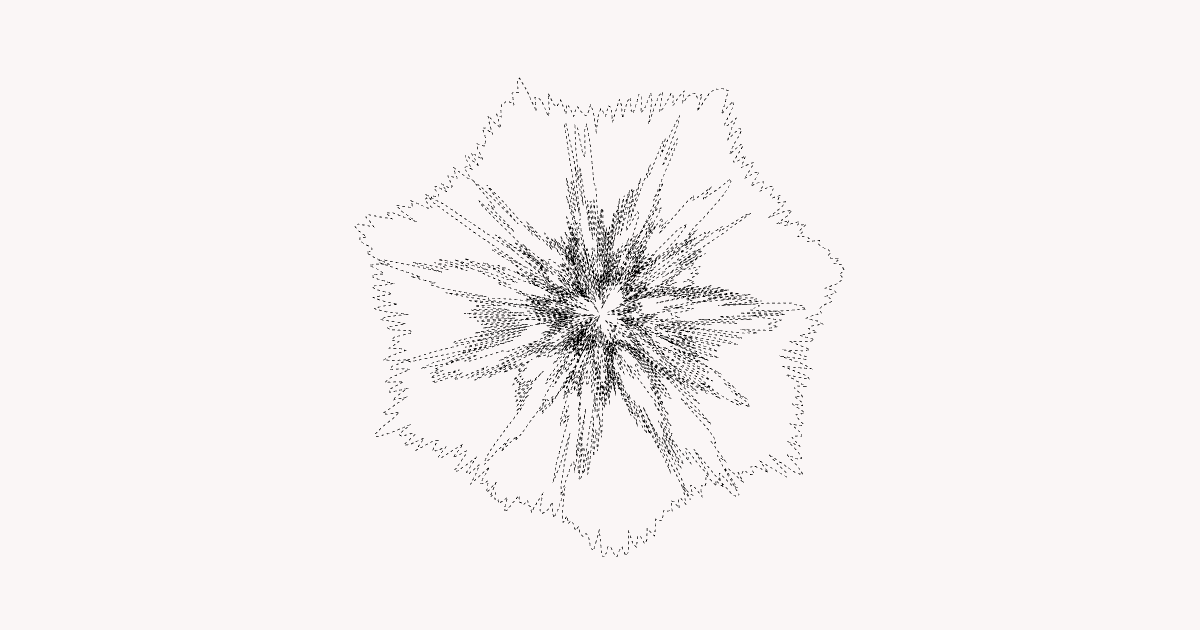
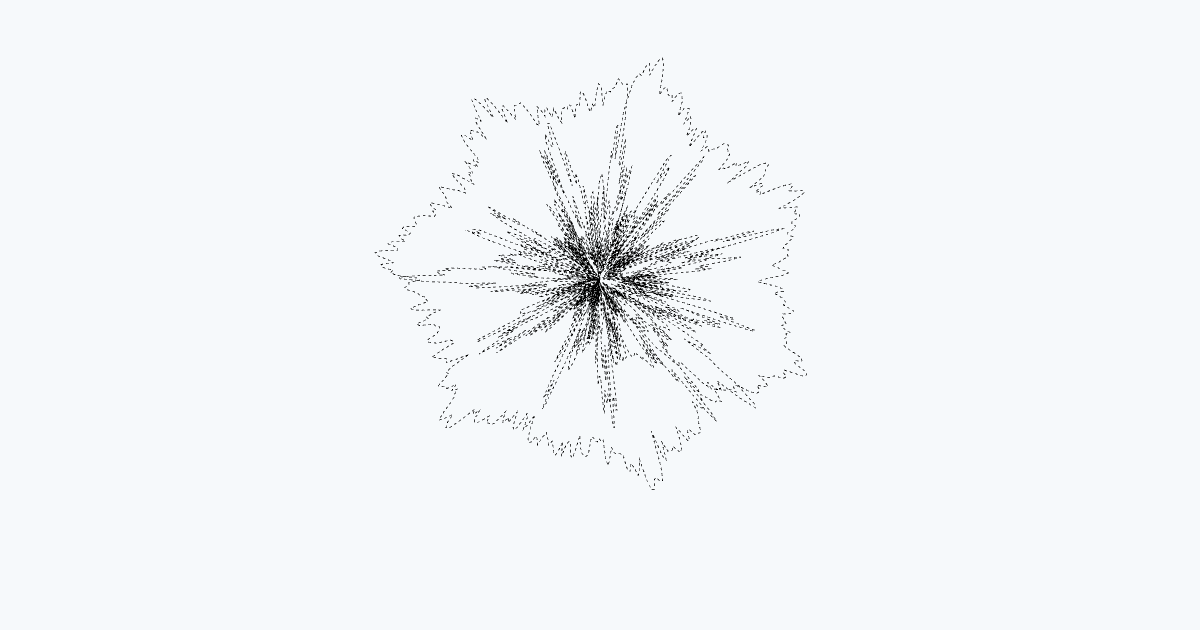
update readme and global update

diff --git a/index.html b/index.html
@@ -14,12 +14,16 @@
     <!-- open graph : ce que linkedin lit quand on colle le lien.
          sans ca il affiche l'url nue, sans vignette ni titre -->
     <meta property="og:type" content="website" />
+    <meta property="og:url" content="https://canvas-audio-gobelins.vercel.app/" />
     <meta property="og:title" content="canvas-audio" />
     <meta
       property="og:description"
       content="Visualiseur audio dessiné au trait, en Canvas et Web Audio API."
     />
-    <meta property="og:image" content="/apercu.png" />
+    <meta
+      property="og:image"
+      content="https://canvas-audio-gobelins.vercel.app/apercu.png"
+    />
     <meta property="og:image:width" content="1200" />
     <meta property="og:image:height" content="630" />
     <meta name="twitter:card" content="summary_large_image" />

diff --git a/README.md b/README.md
@@ -10,6 +10,8 @@ visualisation.
 
 Trois morceaux sont fournis, on peut aussi déposer le sien.
 
+→ [canvas-audio-gobelins.vercel.app](https://canvas-audio-gobelins.vercel.app/)
+
 ## Technos
 
 - Canvas 2D
